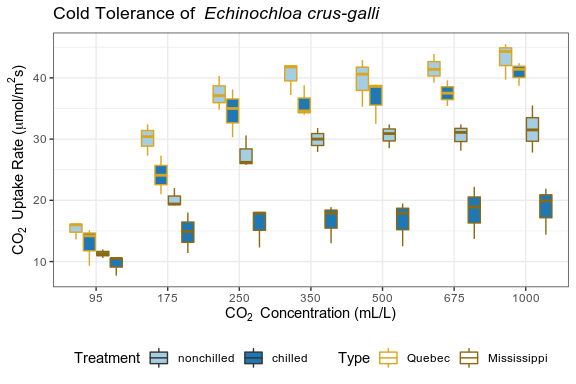
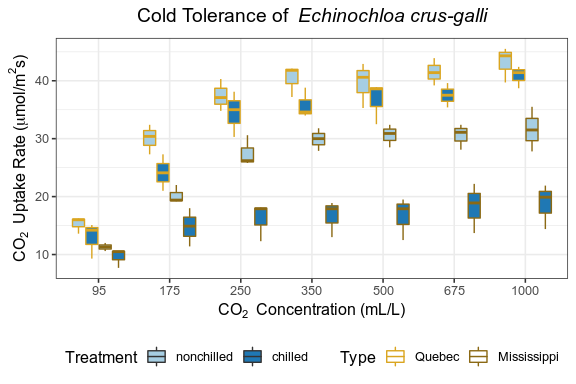
update text size on figures

diff --git a/docs/CO2_Plot.md b/docs/CO2_Plot.md
@@ -76,21 +76,21 @@ While our plot displays all the textual information we want, it would be better 
 
 As you may notice, our previous labels were replaced by similar text but with updated formatting. By using `bquote()` we can add simple formatting changes such as superscripts (`^`), subscripts (`[]`), and italics (`italic()`) among many other formatting options. `expression()` is an alternative method to format text that is popular as well.
 
-We can further refine our plot by changing the size, transparency, and outline of our points, in addition to selecting a more appealing color scheme and theme.
+We can further refine our plot by changing the size, transparency, and outline of our points, text size of our labels, and by selecting a more appealing color scheme and theme.
 
 ``` r
 (CO2.plot <- CO2.plot +
   geom_point(aes(color=Treatment, pch=Type), cex=2.5, alpha=0.75) +
   geom_point(pch=c(1,2)[CO2$Type], color="black", cex=2.5, alpha=0.75) +
   scale_color_brewer(palette="Paired") +
-  theme_bw() +
+  theme_bw(base_size=12) +
   theme(legend.position="bottom",
         plot.title=element_text(hjust=0.5)))
 ```
 
 <img src="imgs/geom_point_scheme-1.png" style="display: block; margin: auto;" />
 
-The first `geom_point()` is the same as we previously used except we add `cex` to increase the size of our points and `alpha` to make them slightly transparent to better see points that overlap. In the second `geom_point()` command we draw black outlines for our points by changing the shapes of our points to unfilled circles and triangles using `pch` (type `?pch` in the `R` consol to see more shapes). In `scale_color_brewer()` we use a preset color scheme to change the colors that represent *Treatment* to two shades of blue. Finally, `theme_bw()` sets the plotting theme to one of the default themes provided by `ggplot2` and `theme()` moves the legend to the bottom to reduce whitespace while also centering the main title.
+The first `geom_point()` is the same as we previously used except we add `cex` to increase the size of our points and `alpha` to make them slightly transparent to better see points that overlap. In the second `geom_point()` command we draw black outlines for our points by changing the shapes of our points to unfilled circles and triangles using `pch` (type `?pch` in the `R` consol to see more shapes). In `scale_color_brewer()` we use a preset color scheme to change the colors that represent *Treatment* to two shades of blue. With `theme_bw()` we set the plotting theme to one of the default themes provided by `ggplot2` and indicate that the smallest text size should be 12. Finally, in `theme()` we move the legend to the bottom to reduce whitespace while also centering the main title for our plot.
 
 Although we can define a `ggplot` object and use `+` to add layers to it stepwise as we have done so far, this method is quite clunky. If we know what we want in our plot we can put our`ggplot` object and layers into one chunk.
 
@@ -104,7 +104,7 @@ ggplot(CO2, aes(x=factor(conc), y=uptake)) +
   labs(x=bquote("CO"[2]~"Concentration (mL/L)"),
        y=bquote("CO"[2]~"Uptake Rate ("*mu*"mol/"*m^2*"s)")) +
   ggtitle(bquote("Cold Tolerance of"~italic("Echinochloa crus-galli"))) +
-  theme_bw() +
+  theme_bw(base_size=12) +
   theme(legend.position="bottom",
         plot.title=element_text(hjust=0.5))
 ```
@@ -121,8 +121,9 @@ ggplot(CO2, aes(x=factor(conc), y=uptake)) +
   labs(title=bquote("Cold Tolerance of"~italic("Echinochloa crus-galli")),
        x=bquote("CO"[2]~"Concentration (mL/L)"),
        y=bquote("CO"[2]~"Uptake Rate ("*mu*"mol/"*m^2*"s)")) +
-  theme_bw() +
-  theme(legend.position="bottom")
+  theme_bw(base_size=12) +
+  theme(legend.position="bottom",
+        plot.title=element_text(hjust=0.5))
 ```
 
 <img src="imgs/geom_boxplot_full-1.png" style="display: block; margin: auto;" />
